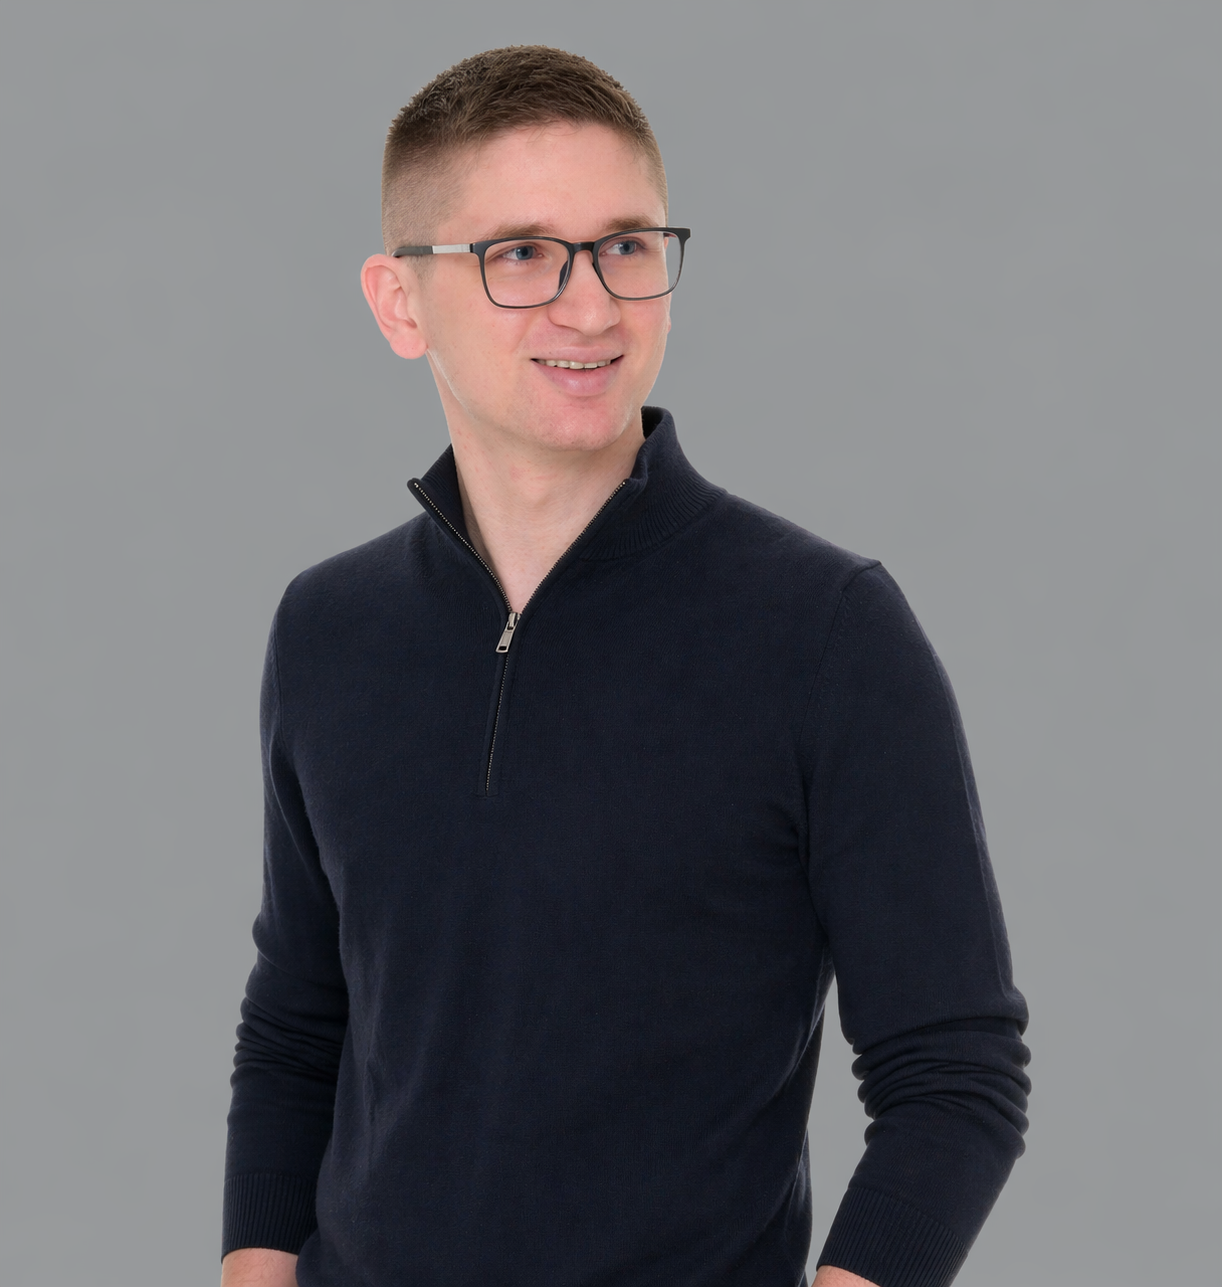
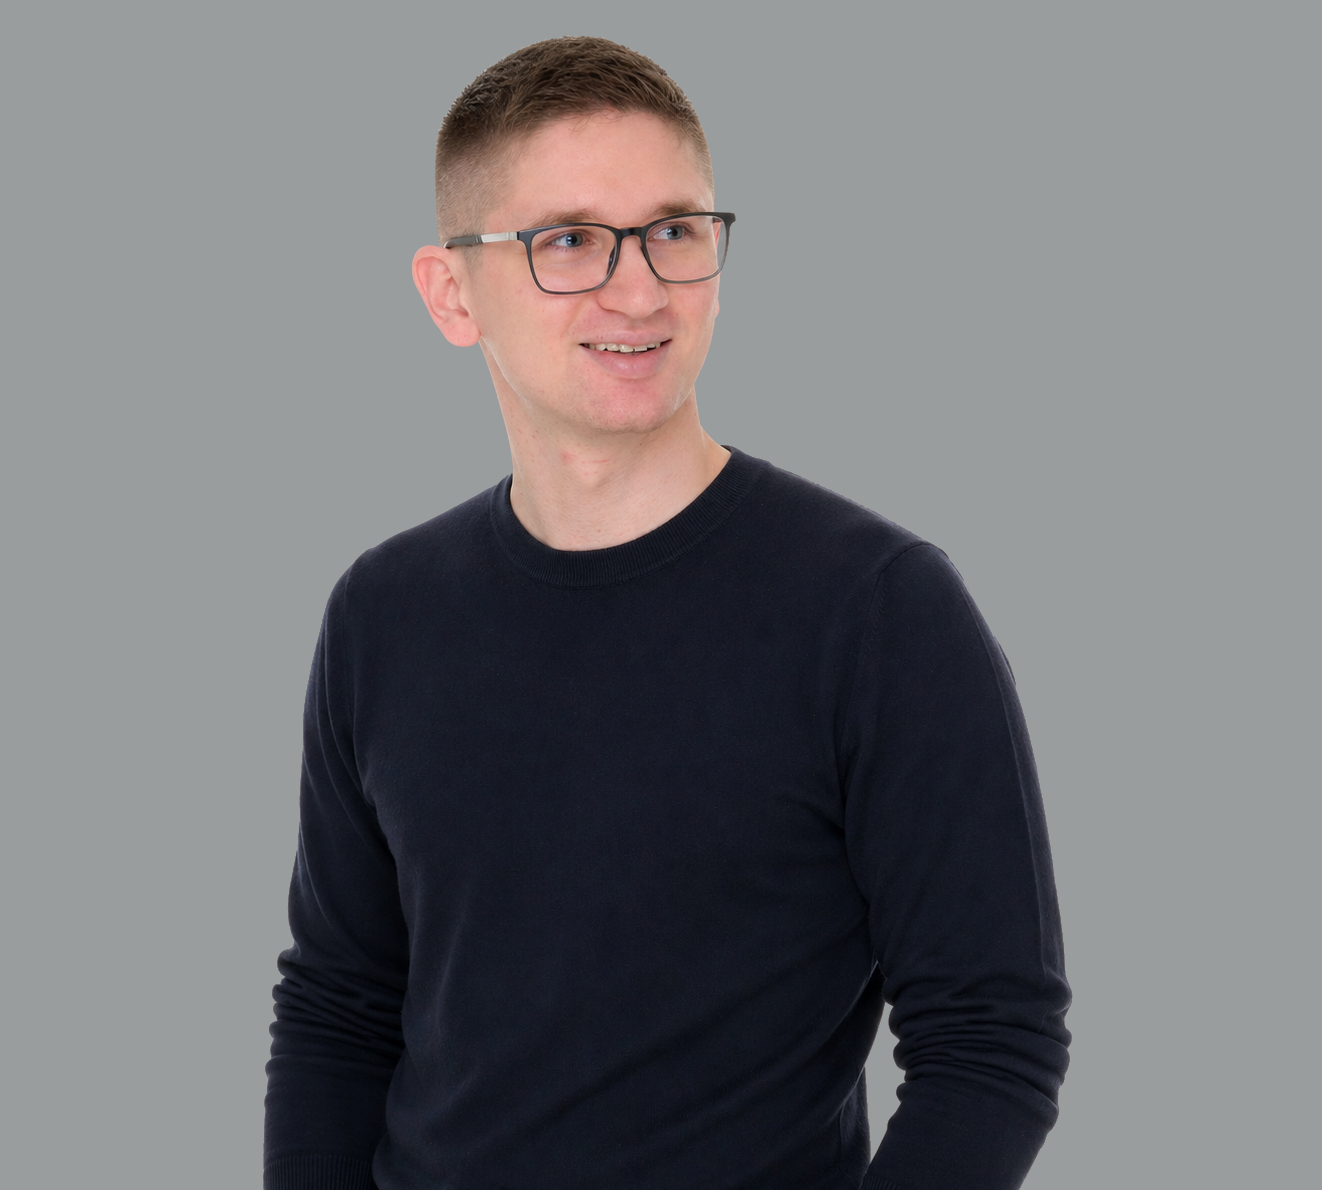
change the hero image to png and update the code accordingly

Changed region(s): [[0.1555, 0.0311, 0.8396, 1.0], [0.6219, 0.7462, 0.7152, 1.0], [0.7463, 0.995, 0.7774, 1.0]]

diff --git a/src/components/hero.jsx b/src/components/hero.jsx
@@ -3,7 +3,7 @@ import navbar from "./navbar";
 const hero = () => {
   return (
     <>
-      <section className="bg-[#97999b] h-screen text-white text-md p-8 overflow-hidden relative">
+      <section className="bg-[#999d9e] h-screen text-white text-md p-8 overflow-hidden relative">
         {/* nav bar */}
         {navbar()}
         <img
